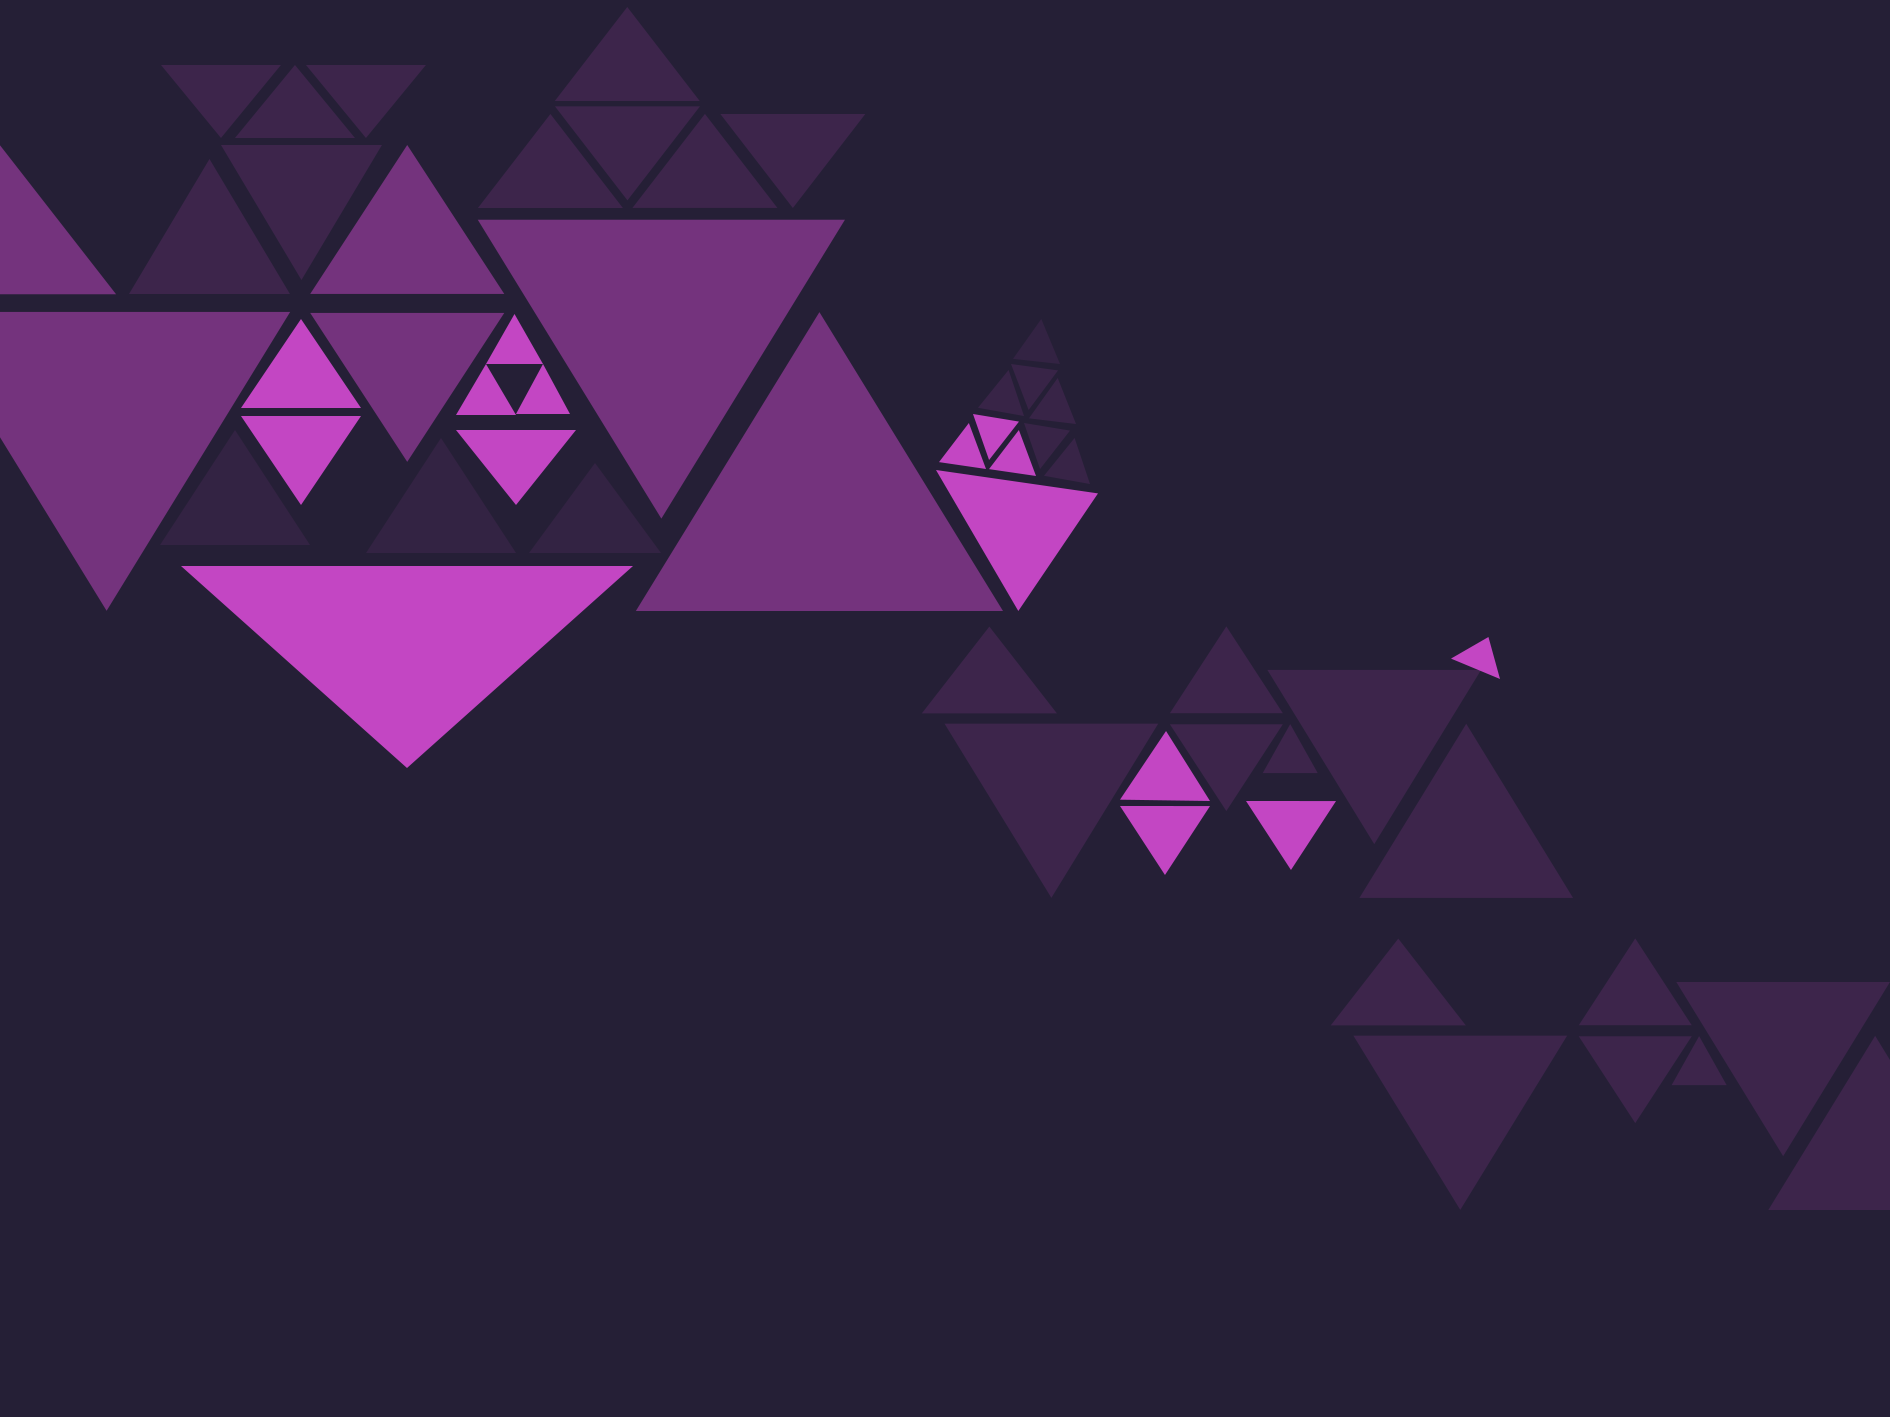
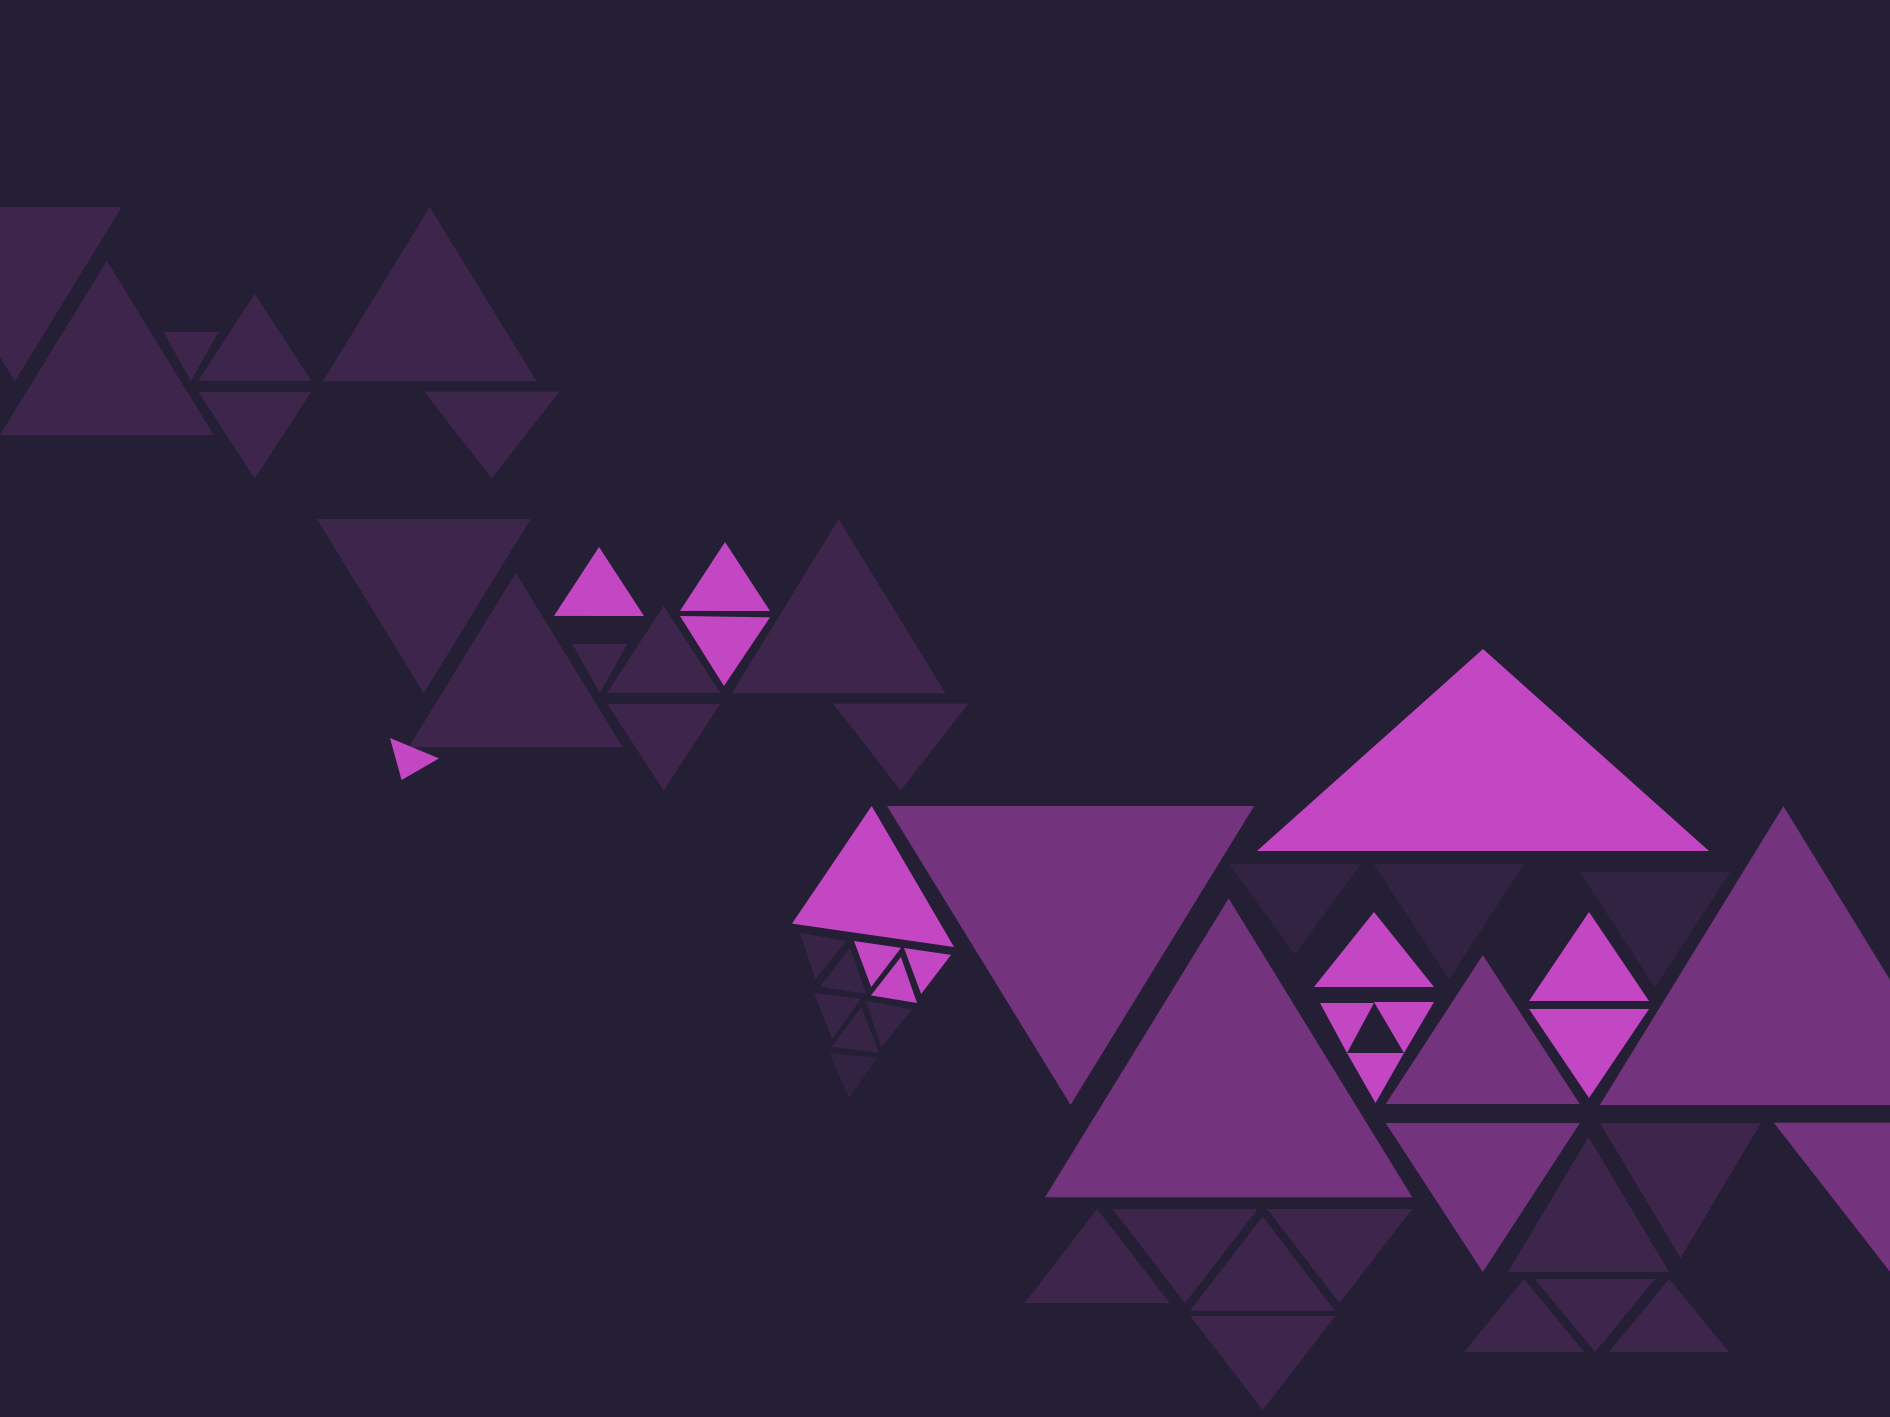
a

Changed region(s): [[0.4058, 0.4658, 1.0, 0.9005], [0.0, 0.0932, 0.5931, 0.5589]]

diff --git a/styles/style.css b/styles/style.css
@@ -135,10 +135,6 @@
   color: white;
 }
 
-.inputBox ::-moz-placeholder {
-  color: #999;
-}
-
 .inputBox ::placeholder {
   color: #999;
 }
@@ -248,7 +244,7 @@ section h1 {
   display: flex;
   justify-content: center;
   transition: 0.5s ease-in-out;
-  background-image: url("/Portfolio/Photos/shapes-background.png");
+  background-image: url("./Photos/shapes-background-2.png");
   background-position: center;
   background-size: cover;
   background-repeat: no-repeat;
@@ -348,16 +344,16 @@ svg:nth-child(3) path {
 
 .projects-section {
   overflow: hidden;
+  padding-block: 4rem;
   transition: 0.2s;
   display: flex;
   flex-direction: column;
-  background-image: url("/Portfolio/Photos/shapes-background-2.png");
+  background-image: url("./Photos/background-3.png");
   background-position: center;
   background-size: cover;
   background-repeat: no-repeat;
 }
 .projects-section a {
-  height: 100%;
   display: flex;
   justify-content: center;
 }
@@ -378,8 +374,7 @@ svg:nth-child(3) path {
   width: 100%;
   height: 100%;
   z-index: -1;
-  -o-object-fit: cover;
-     object-fit: cover;
+  object-fit: cover;
   box-shadow: 40px 40px 50px 10px #1a1527;
 }
 .project-container .project-heading {
@@ -627,7 +622,7 @@ svg:nth-child(3) path {
 @media only screen and (min-width: 1600px) {
   .introduction-container {
     margin-left: 20rem;
-    min-width: 550px;
+    min-width: 700px;
   }
   .introduction-container .title h1 {
     margin-left: 2rem;

diff --git a/styles/style.scss b/styles/style.scss
@@ -179,7 +179,7 @@ section {
    justify-content: center;
    transition: 0.5s ease-in-out;
    
-   background-image: url('/Portfolio/Photos/shapes-background.png');
+   background-image: url('./Photos/shapes-background-2.png');
    background-position: center;
    background-size: cover;
    background-repeat: no-repeat;
@@ -311,16 +311,16 @@ section {
 
 .projects-section {
   overflow: hidden;
+  padding-block: 4rem;
   transition: 0.2s;
   display: flex;
   flex-direction: column;
-  background-image: url('/Portfolio/Photos/shapes-background-2.png');
+  background-image: url('./Photos/background-3.png');
   background-position: center;
   background-size: cover;
   background-repeat: no-repeat;
 
   a {
-     height: 100%;
      display: flex;
      justify-content: center;
   }
@@ -709,7 +709,7 @@ section {
 
  .introduction-container {
    margin-left: 20rem;
-   min-width: 550px;
+   min-width: 700px;
 
      .title {
 

diff --git a/index.html b/index.html
@@ -116,7 +116,7 @@
                      <div class="dwd-bakery project-container">
                         <div class="project-heading">
 
-                            <h3 class="gradient-text">Down With <br> Dough Bakery</h3> 
+                             <h3 class="gradient-text">Down With <br> Dough Bakery</h3> 
 
                         </div>
 
@@ -133,9 +133,10 @@
                      <div class="wedding-page project-container">
                         <div class="project-heading">
 
-                            <h3 class="gradient-text">Wedding <br>Invitation</h3> 
+                             <h3 class="gradient-text">Wedding <br>Invitation</h3> 
 
                         </div>
+                        
                          <img src="./Photos/img-4.png" alt="">
 
                      </div>
